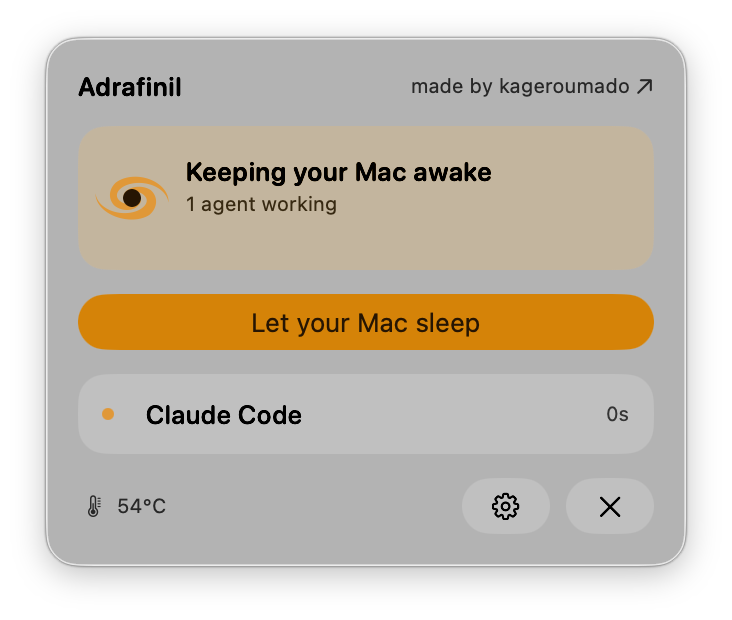
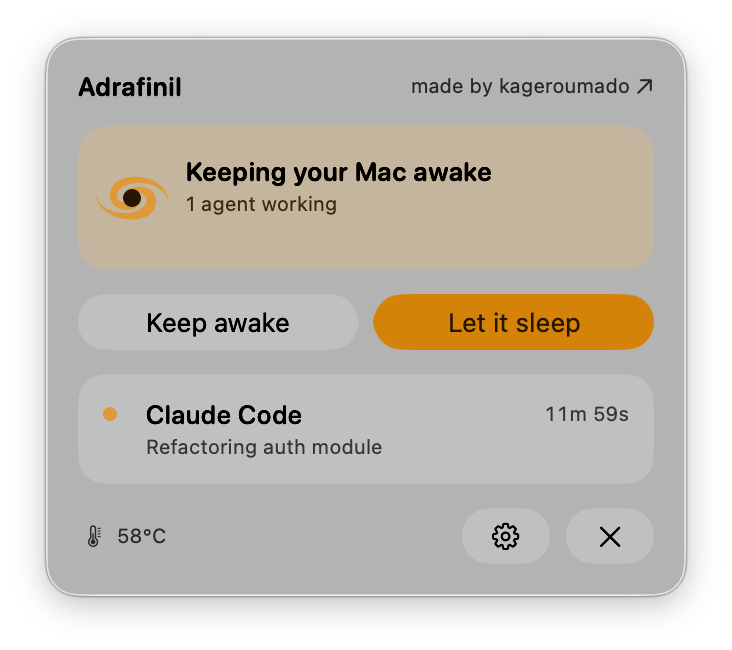
Update README + screenshots for manual keep-awake
Clarify that Adrafinil stays awake three ways: automatically (agent hooks +
optional process-sniffing), agent-driven (MCP tool / `adrafinil hold` CLI), and
manually (the menu-bar Keep awake button, even with no agents running). Refresh
both popover screenshots to the current UI — awake shows the Keep awake / Let it
sleep row, idle shows the standalone Keep awake button.

diff --git a/README.md b/README.md
@@ -14,8 +14,8 @@
 
 <table>
   <tr>
-    <td align="center"><img src=".github/adrafinil-awake.png" alt="Awake — an agent holds an assertion" width="420"><br><sub><b>awake</b> ・ an agent is working</sub></td>
-    <td align="center"><img src=".github/adrafinil-sleeping.png" alt="Sleeping — no agents, normal sleep" width="420"><br><sub><b>sleeping</b> ・ no agents, normal sleep</sub></td>
+    <td align="center"><img src=".github/adrafinil-awake.png" alt="Awake — kept awake while an agent works, with Keep awake / Let it sleep controls" width="420"><br><sub><b>awake</b> ・ an agent is working — or keep it awake yourself</sub></td>
+    <td align="center"><img src=".github/adrafinil-sleeping.png" alt="Idle — no agents, normal sleep, with a Keep awake button to hold it open yourself" width="420"><br><sub><b>idle</b> ・ no agents, normal sleep — or keep it awake yourself</sub></td>
   </tr>
 </table>
 
@@ -42,6 +42,12 @@ It's the opposite of always-on wake utilities like `caffeinate` or Amphetamine. 
 intervenes when an agent (Claude Code, Codex, Cursor, …) is mid-task, and gets out of the way the
 moment that work finishes.
 
+**Three ways it stays awake:**
+
+- **Automatically** — agent hooks tell Adrafinil when a turn starts and ends, so it holds sleep only while an agent is actually working. (Optional process-sniffing can also spot a running agent that has no hooks installed.)
+- **Agent-driven** — an agent can deliberately keep the Mac awake *past its reply* for a long build or deploy, via the bundled MCP tool or the `adrafinil hold` CLI.
+- **Manually** — a menu-bar **Keep awake** button places a time-boxed hold yourself, even with **no agents running**; **Let it sleep** clears everything.
+
 > ⚠️ **Privileged sleep control.** Overriding clamshell sleep requires root. Adrafinil isolates
 > that in a tiny, audited helper that only exposes `setSleepBlocked(Bool)` — all policy lives in an
 > unprivileged daemon. It holds a standard `IOPMAssertion` for idle sleep and uses
@@ -58,6 +64,7 @@ moment that work finishes.
 - **Thermal cutout.** If skin/CPU temperature crosses threshold while the lid is closed, all assertions are force-released so a bag-bound Mac can't cook itself.
 - **Idle release.** Assertions whose owning process has died or gone CPU-idle for N minutes are dropped automatically.
 - **Process sniffing (optional).** The daemon can auto-acquire when it sees a known agent binary running, even without hooks installed.
+- **Manual keep-awake (no agent needed).** A menu-bar **Keep awake** button starts a time-boxed hold on demand — for a long download, a local job, anything off-agent — then **Let it sleep** releases it.
 - **Lid-close audio + lid-open summary.** A chime confirms an assertion is held when you close the lid (the screen is off, so no notification); reopening shows what ran while you were away, peak temperature, and whether the thermal cutout fired.
 - **Clean uninstall.** Removes every hook entry it added across all agent configs.
 
@@ -125,6 +132,11 @@ agents, through the bundled MCP tool that `adrafinil mcp` serves:
 adrafinil hold --for 30m --reason "deploy"   # keep awake up to 30 min, then auto-release
 adrafinil mcp                                 # speak the Model Context Protocol on stdio (for agents)
 ```
+
+You don't need an agent at all: the menu bar's **Keep awake** button places the same kind of
+time-boxed hold by hand — for a long download or any off-agent task — and **Let it sleep** releases
+everything. So Adrafinil covers all three: it auto-detects agent activity through hooks, lets agents
+drive it explicitly over MCP/CLI, and can be flipped on manually when you need it.
 
 Other subcommands: `status`, `install-hooks`, `uninstall-hooks`, `daemon-status`, `version`.
 